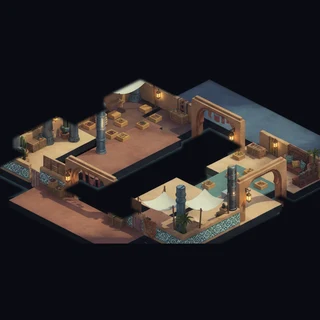
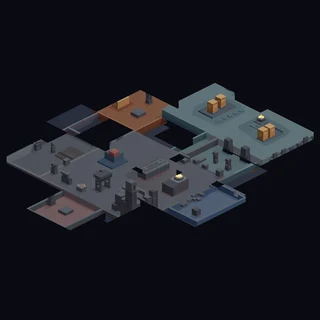
Repaint Bind and Haven backdrops via Scenario; document the LoRA route
Google credits stayed depleted, so these two came through Scenario:
POST /v1/generate/img2img with modelId flux.1-dev + a loras array --
the composition route that finally samples our trained
esports-sim-diorama LoRA (direct modelId generation still 500s;
STATUS.md updated). The winning engine for guide repaints turned out
to be the platform Blockout-to-Render Kontext LoRA at strength 0.75:
it holds the blockout massing (footprint IoU 0.951/0.972 on the
picked candidates) while fully restyling. Deterministic guide-aware
repairs finish the job: a glyph banner strung across Haven mid is
refilled per-pixel from the guide (zone tint on floor, navy on void),
and every plate pixel the model left near-black is lifted to the
guide zone tint + hash noise, so no walkable floor reads as void.
Both finals re-gate at IoU 1.000 / spill 0.000 and serve at the
viewer path. Scenario prompts (2048-char cap) saved beside the Gemini
ones. Style note: these two are low-poly-leaning versus the painterly
Gemini four; regenerate via /art-pass for style unity if Google
credits return.

diff --git a/assets/office/style/lora/STATUS.md b/assets/office/style/lora/STATUS.md
@@ -6,20 +6,20 @@ train call was accepted immediately and the job completed:
 (FLUX.2 Dev base, 16-image captioned corpus, trigger phrase
 `esports-sim-diorama`, concept scale 0.8).
 
-**Open item — API sampling.** Every generation attempt against the
-trained model returns a bare 500 from Scenario
-(`POST /v1/models/<id>/inferences` with `{"parameters": {"type":
-"txt2img", ...}}`, and `POST /v1/generate/txt2img` — both exist, both
-500; retried for ~15 minutes post-training, so not deployment lag).
-The legacy inference path likely does not serve `flux.2-dev-lora` on
-this plan/API generation. The model itself is healthy and can be used
-from the Scenario web UI (app.scenario.com -> esports-sim-diorama ->
-Generate, prefix prompts with the trigger phrase). The agreed
-validation prompt: "esports-sim-diorama style, isometric esports team
-office lounge with couches and trophy shelf, dark navy background" —
-save a good result to `assets/office/style/lora/sample.png`. Finding
-the correct current-generation API route is a small research task for
-a future session.
+**API sampling — SOLVED (2026-07-20).** Direct generation against the
+LoRA still 500s (`modelId: model_5Zu...` on `/v1/generate/txt2img` or
+`img2img`, and `/v1/models/<id>/inferences`). The working route is
+LoRA COMPOSITION: `POST /v1/generate/img2img` (or txt2img) with
+`{"modelId": "flux.1-dev", "loras": [{"modelId":
+"model_5ZuAoQQnRSMSeykEwaHjBKwm", "weight": 0.8}], ...}` — accepted
+and runs to success, even across the base-family mismatch. Caveats
+from the bind/haven map-repaint run: prompts cap at 2048 chars; the
+cross-family diorama stack applies the style only weakly, and the
+family-matched public LoRA `model_eJg6GZwd59vg4ycufRLyKsxL`
+("Blockout to Render - Kontext") at strength ~0.75 was the better
+img2img engine for guide repaints (high roll variance — generate
+several, gate on footprint IoU). Full recipe:
+`scenario_paint*.py` in session c3389955's scratchpad.
 
 ---
 
